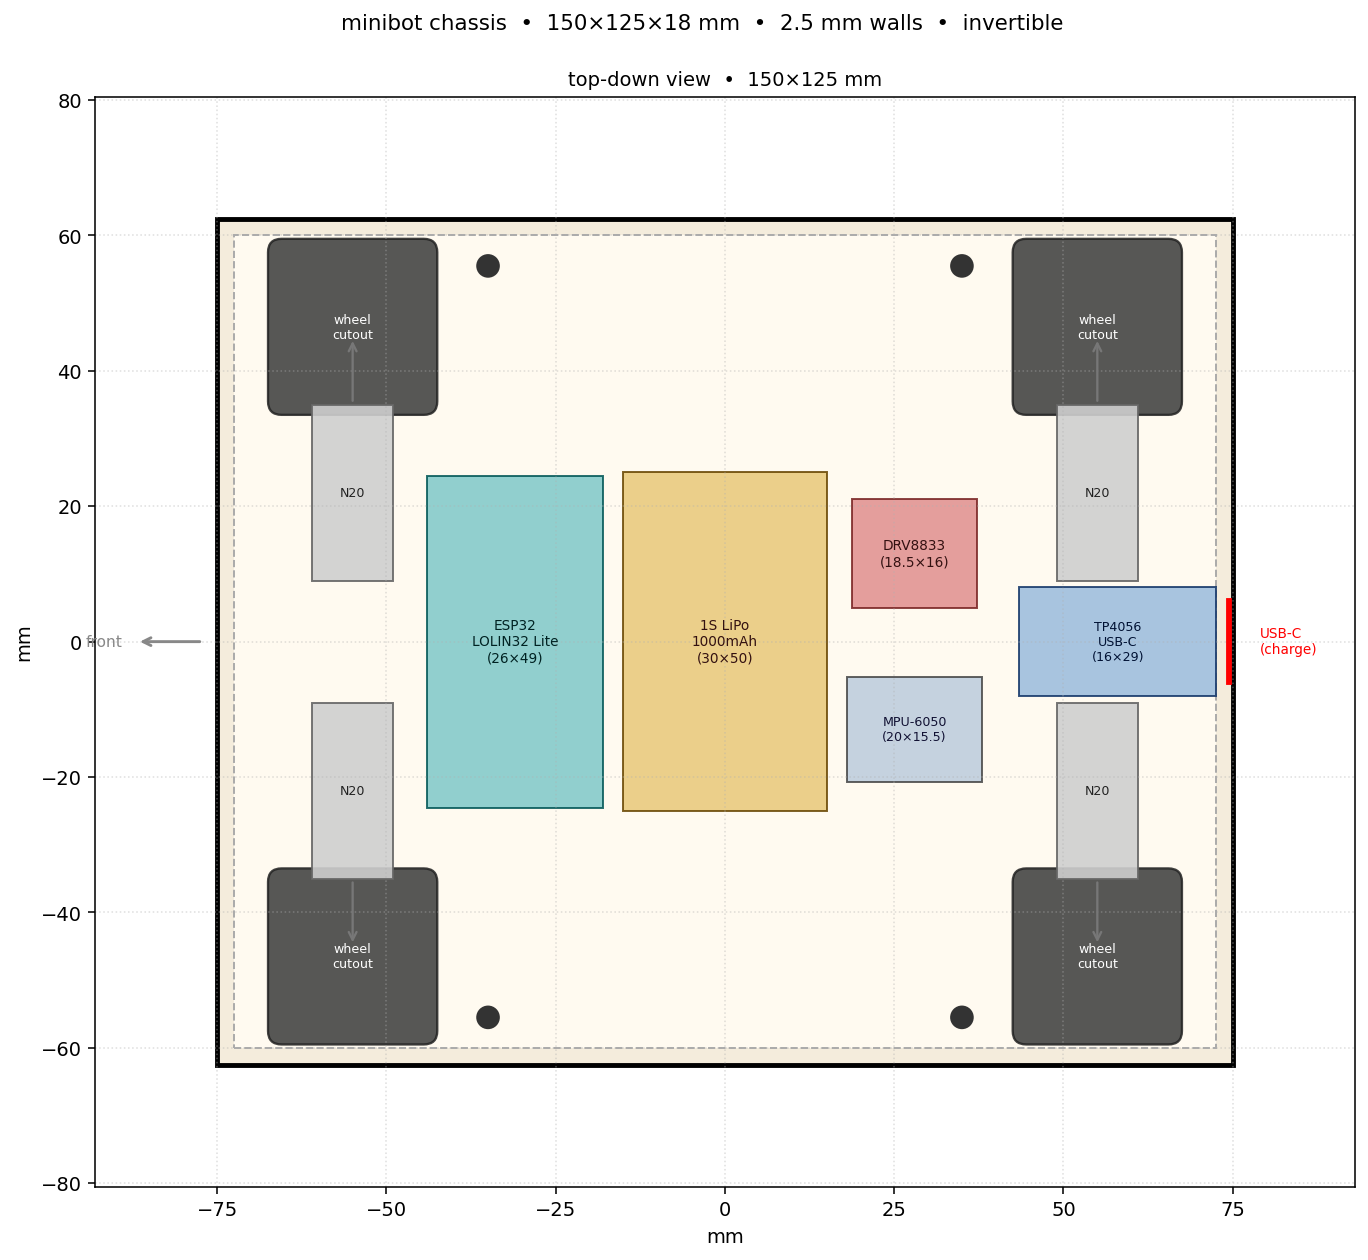
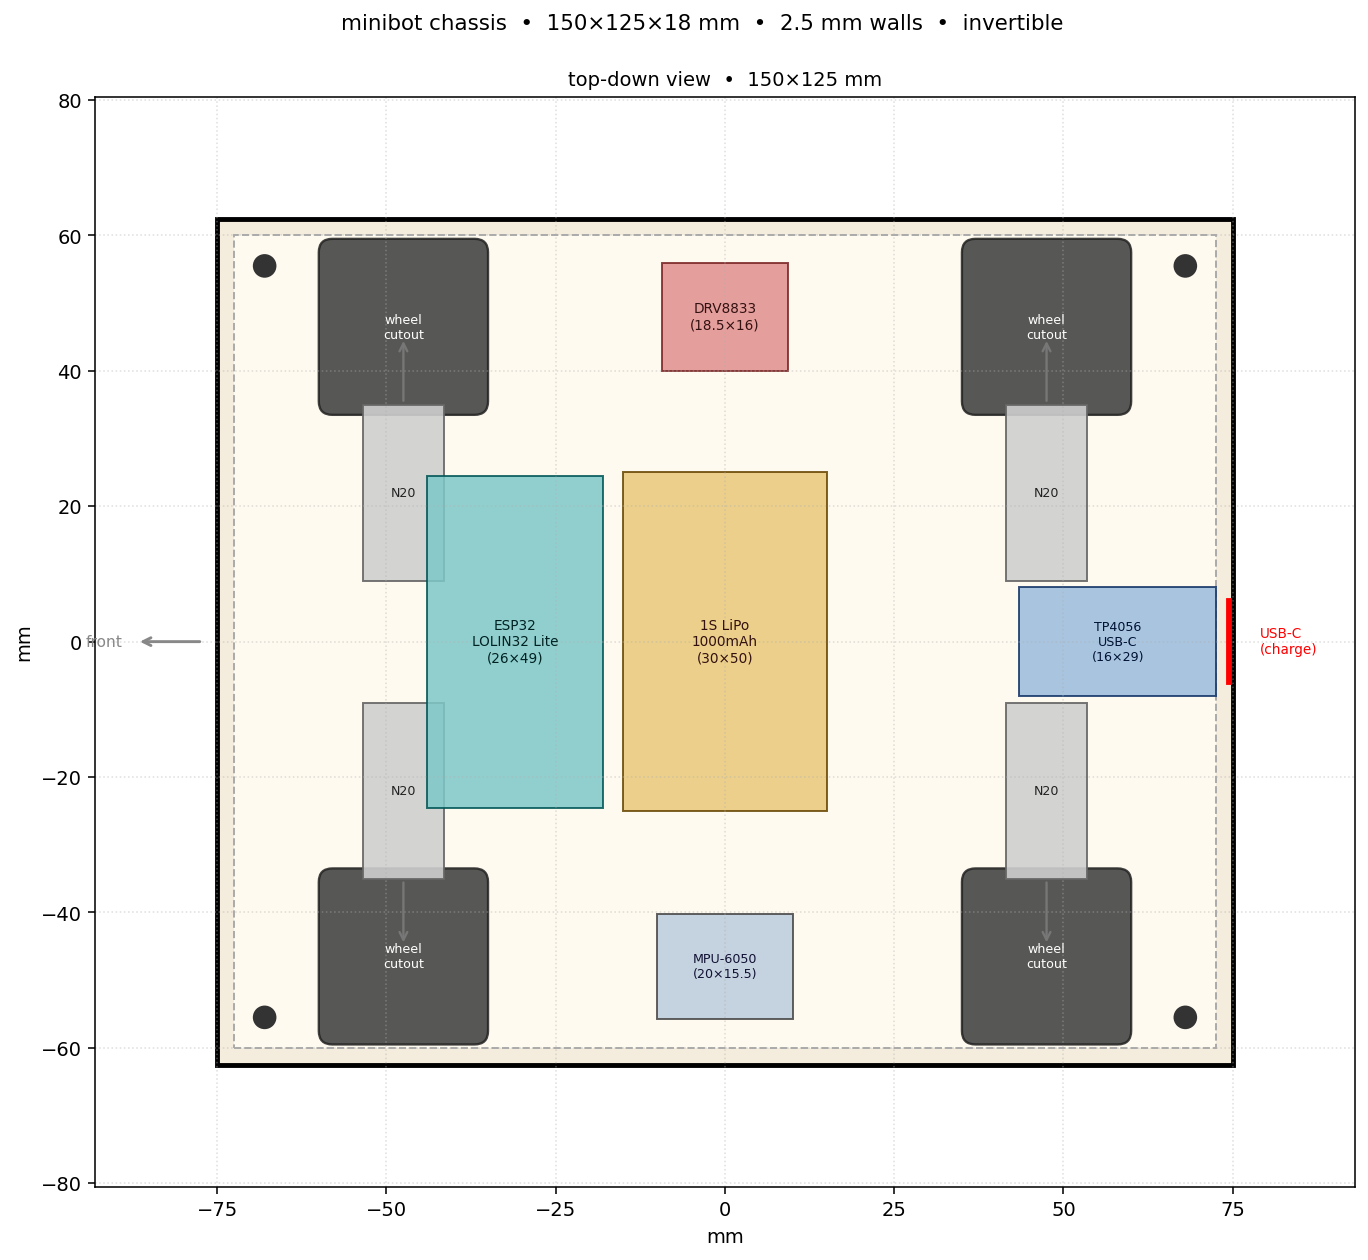
feat(cad): screws back at corners, DRV+MPU moved to the sides, wheelbase 95

diff --git a/docs/cad/layout.py b/docs/cad/layout.py
@@ -23,7 +23,7 @@ motor_width = 12       # X dimension when laid flat
 motor_height = 10      # Z dimension (perpendicular to plate)
 motor_diameter = motor_width
 motor_length = 26      # body only, excluding shaft
-motor_axle_pitch = 110
+motor_axle_pitch = 95
 motor_track = 44
 
 wheel_diameter = 25      # measured outer diameter incl. rubber tire
@@ -62,17 +62,17 @@ wheel_positions = [
     ( motor_axle_pitch / 2, -wheel_center_y),
 ]
 
-# Component centre positions (wheels-in-corners layout). The wide
-# wheelbase puts the wheels in the corners, so boards cluster centrally:
+# Component centre positions (wheels near the corners; corners reserved
+# for the screw bosses):
 #  - Battery rotated (long axis Y), dead-centre → balanced CoM.
 #  - ESP32 rotated alongside it to the left.
-#  - DRV8833 + MPU-6050 stacked to the right.
+#  - DRV8833 + MPU-6050 out on the two sides (±Y edges), centred in X.
 #  - TP4056 at back-centre, USB-C reaching the back wall through the gap
 #    between the rear motors (track is wide enough to clear it).
 bat_x, bat_y = 0, 0
 esp_x, esp_y = -31, 0
-drv_x, drv_y = 28, +13
-imu_pos_x, imu_pos_y = 28, -13
+drv_x, drv_y = 0, +48
+imu_pos_x, imu_pos_y = 0, -48
 tp_x, tp_y = 58, 0
 
 
@@ -124,7 +124,7 @@ def draw_top(ax) -> None:
     ax.text(bat_x, bat_y, f"1S LiPo\n1000mAh\n({battery_width}×{battery_length})",
             ha="center", va="center", fontsize=7, color="#311")
 
-    # DRV8833 — right of the battery (upper)
+    # DRV8833 — on the +Y side, centred in X
     ax.add_patch(patches.Rectangle(
         (drv_x - driver_length / 2, drv_y - driver_width / 2),
         driver_length, driver_width,
@@ -133,7 +133,7 @@ def draw_top(ax) -> None:
     ax.text(drv_x, drv_y, f"DRV8833\n({driver_length}×{driver_width})",
             ha="center", va="center", fontsize=7, color="#311")
 
-    # MPU-6050 — right of the battery (lower)
+    # MPU-6050 — on the -Y side, centred in X
     ax.add_patch(patches.Rectangle(
         (imu_pos_x - imu_length / 2, imu_pos_y - imu_width / 2),
         imu_length, imu_width,
@@ -166,11 +166,11 @@ def draw_top(ax) -> None:
     ax.text(plate_length / 2 + 4, 0, "USB-C\n(charge)",
             ha="left", va="center", fontsize=7, color="red")
 
-    # Mount holes — on the long edges, clear of the corner wheels
+    # Corner mount holes
     for sx in (-1, 1):
         for sy in (-1, 1):
             ax.add_patch(patches.Circle(
-                (sx * 35, sy * (plate_width / 2 - 7)),
+                (sx * (plate_length / 2 - 7), sy * (plate_width / 2 - 7)),
                 1.6, color="#333", zorder=10,
             ))
 

diff --git a/research.md b/research.md
@@ -289,7 +289,7 @@ The motors mount **shaft-outward** — bodies sit toward the chassis centre, sha
 | Wall height per plate | 6 mm (×2 = 12 mm cavity) |
 | Total chassis height | **18 mm** (3 + 6 + 6 + 3) |
 | Motor track (centres) | **44 mm** |
-| Motor axle pitch (wheelbase) | 110 mm (wheels in the corners) |
+| Motor axle pitch (wheelbase) | 95 mm (wheels near the corners) |
 | Wheel positions | shaft-outward from motors; wheel centres at ±47.5 mm in Y |
 | Wheel cutout per plate | ~30 × 22 mm rounded slot (×4) |
 | Mounting | M2.5 heat-set inserts in corner bosses |
